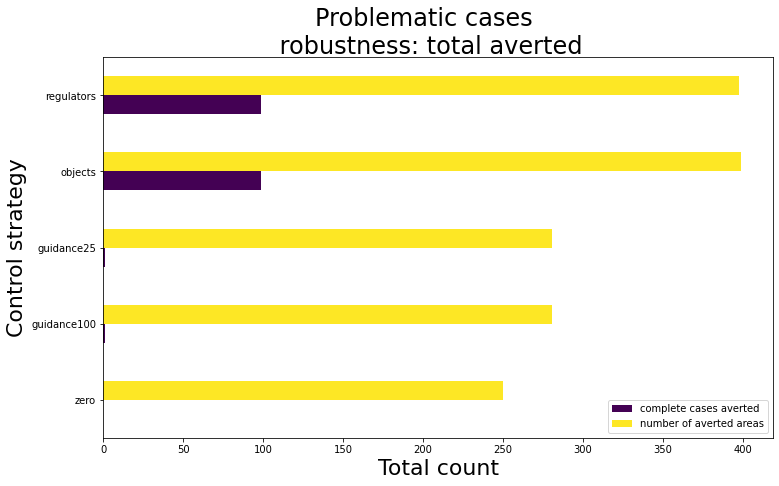
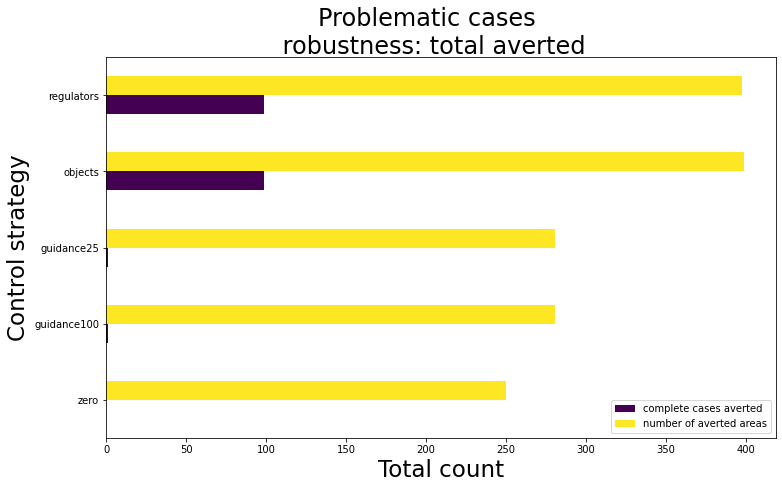
figures update

Changed region(s): [[0.0, 0.0, 1.0, 0.9877], [0.3081, 0.1852, 0.3389, 0.2469]]

diff --git a/analysis/control_exploration_results.py b/analysis/control_exploration_results.py
@@ -253,7 +253,7 @@ if __name__ == "__main__":
         )
     ].plot.bar(ax=ax, colormap="viridis", rot=0)
     fig.suptitle("Problematic cases \n raw max density", fontsize=22)
-    ax.set_ylabel("max density [#/m²]", fontsize=22)
+    ax.set_ylabel("max density [#/m²]", fontsize=23)
     fig.savefig("../figures/controlStrategiesRawMaxDensityS1.png", bbox_inches="tight")
 
     fig, ax = plt.subplots(figsize=(8, 6))
@@ -268,7 +268,7 @@ if __name__ == "__main__":
         )
     ].plot.bar(ax=ax, colormap="viridis", rot=0)
     fig.suptitle("Good cases \n raw max density", fontsize=22)
-    ax.set_ylabel("max density [#/m²]", fontsize=22)
+    ax.set_ylabel("max density [#/m²]", fontsize=23)
     fig.savefig("../figures/controlStrategiesRawMaxDensityS2.png", bbox_inches="tight")
 
     fig, ax = plt.subplots(figsize=(8, 6))
@@ -283,7 +283,7 @@ if __name__ == "__main__":
         )
     ].plot.bar(ax=ax, colormap="viridis", rot=0)
     fig.suptitle("worst cases \n raw max density", fontsize=22)
-    ax.set_ylabel("max density [#/m²]", fontsize=22)
+    ax.set_ylabel("max density [#/m²]", fontsize=23)
     fig.savefig("../figures/controlStrategiesRawMaxDensityS3.png", bbox_inches="tight")
 
     # plotting raw mean speed scores
@@ -292,7 +292,7 @@ if __name__ == "__main__":
         ax=ax, colormap="viridis"
     )
     fig.suptitle("Problematic cases \n raw mean speed", fontsize=24)
-    ax.set_xlabel("mean speed [m/s]", fontsize=22)
+    ax.set_xlabel("mean speed [m/s]", fontsize=23)
     fig.savefig("../figures/controlStrategiesRawMeanSpeedS1.png", bbox_inches="tight")
 
     fig, ax = plt.subplots(figsize=(12, 7))
@@ -300,7 +300,7 @@ if __name__ == "__main__":
         ax=ax, colormap="viridis"
     )
     fig.suptitle("Good cases \n raw mean speed", fontsize=24)
-    ax.set_xlabel("mean speed [m/s]", fontsize=22)
+    ax.set_xlabel("mean speed [m/s]", fontsize=23)
     fig.savefig("../figures/controlStrategiesRawMeanSpeedS2.png", bbox_inches="tight")
 
     fig, ax = plt.subplots(figsize=(12, 7))
@@ -308,7 +308,7 @@ if __name__ == "__main__":
         ax=ax, colormap="viridis"
     )
     fig.suptitle("worst cases \n raw mean speed", fontsize=24)
-    ax.set_xlabel("mean speed [m/s]", fontsize=22)
+    ax.set_xlabel("mean speed [m/s]", fontsize=23)
     fig.savefig("../figures/controlStrategiesRawMeanSpeedS3.png", bbox_inches="tight")
 
     # plotting robustness averted scores
@@ -317,8 +317,8 @@ if __name__ == "__main__":
         ax=ax, colormap="viridis", rot=0
     ).legend(loc="lower right")
     fig.suptitle("Problematic cases \n robustness: total averted", fontsize=24)
-    ax.set_xlabel("Total count", fontsize=22)
-    ax.set_ylabel(ylabel="Control strategy", fontsize=22)
+    ax.set_xlabel("Total count", fontsize=23)
+    ax.set_ylabel(ylabel="Control strategy", fontsize=23)
     fig.savefig("../figures/controlStrategiesAvertedS1.png", bbox_inches="tight")
 
     fig, ax = plt.subplots(figsize=(12, 7))
@@ -326,8 +326,8 @@ if __name__ == "__main__":
         ax=ax, colormap="viridis", rot=0
     ).legend(loc="lower right")
     fig.suptitle("Good cases \n robustness: total averted", fontsize=24)
-    ax.set_xlabel("Total count", fontsize=22)
-    ax.set_ylabel(ylabel="Control strategy", fontsize=22)
+    ax.set_xlabel("Total count", fontsize=23)
+    ax.set_ylabel(ylabel="Control strategy", fontsize=23)
     fig.savefig("../figures/controlStrategiesAvertedS2.png", bbox_inches="tight")
 
     fig, ax = plt.subplots(figsize=(12, 7))
@@ -335,8 +335,8 @@ if __name__ == "__main__":
         ax=ax, colormap="viridis", rot=0
     ).legend(loc="lower right")
     fig.suptitle("worst cases \n robustness: total averted", fontsize=24)
-    ax.set_xlabel("Total count", fontsize=22)
-    ax.set_ylabel(ylabel="Control strategy", fontsize=22)
+    ax.set_xlabel("Total count", fontsize=23)
+    ax.set_ylabel(ylabel="Control strategy", fontsize=23)
     fig.savefig("../figures/controlStrategiesAvertedS3.png", bbox_inches="tight")
 
     # plotting robustness mean variance speed
@@ -345,7 +345,9 @@ if __name__ == "__main__":
         ax=ax, colormap="viridis", rot=0, legend=False
     )
     fig.suptitle("Problematic cases \n robustness: mean variance", fontsize=24)
-    ax.set(xlabel="Mean variance score (higher is better)", ylabel="Control strategy")
+    ax.set_xlabel("Mean variance score (higher is better)", fontsize=23)
+    ax.set_ylabel("Control strategy", fontsize=23)
+    plt.yticks(fontsize=17)
     fig.savefig(
         "../figures/controlStrategiesMeanVarianceSpeedS1.png", bbox_inches="tight"
     )
@@ -354,8 +356,9 @@ if __name__ == "__main__":
         ax=ax, colormap="viridis", rot=0, legend=False
     )
     fig.suptitle("Good cases \n robustness: mean variance", fontsize=24)
-    ax.set_xlabel("Mean variance score (higher is better)", fontsize=22)
-    ax.set_ylabel("Control strategy", fontsize=22)
+    ax.set_xlabel("Mean variance score (higher is better)", fontsize=23)
+    ax.set_ylabel("Control strategy", fontsize=23)
+    plt.yticks(fontsize=17)
     fig.savefig(
         "../figures/controlStrategiesMeanVarianceSpeedS2.png", bbox_inches="tight"
     )
@@ -364,8 +367,9 @@ if __name__ == "__main__":
         ax=ax, colormap="viridis", rot=0, legend=False
     )
     fig.suptitle("worst cases \n robustness: mean variance", fontsize=24)
-    ax.set_xlabel("Mean variance score (higher is better)", fontsize=22)
-    ax.set_ylabel("Control strategy", fontsize=22)
+    ax.set_xlabel("Mean variance score (higher is better)", fontsize=23)
+    ax.set_ylabel("Control strategy", fontsize=23)
+    plt.yticks(fontsize=17)
     fig.savefig(
         "../figures/controlStrategiesMeanVarianceSpeedS3.png", bbox_inches="tight"
     )
@@ -376,8 +380,9 @@ if __name__ == "__main__":
         ["maxDensityArea1", "maxDensityArea2", "maxDensityArea3", "maxDensityArea4"]
     ].T.plot.bar(ax=ax, colormap="viridis", rot=0)
     fig.suptitle("Problematic cases \n robustness: mean variance", fontsize=24)
-    ax.set_xlabel("Control strategy", fontsize=22)
-    ax.set_ylabel("Mean variance score (higher is better)", fontsize=22)
+    ax.set_xlabel("Control strategy", fontsize=23)
+    ax.set_ylabel("Mean variance score (higher is better)", fontsize=23)
+    plt.xticks(fontsize=17)
     fig.savefig(
         "../figures/controlStrategiesMeanVarianceMaxDensityS1.png", bbox_inches="tight"
     )
@@ -386,8 +391,9 @@ if __name__ == "__main__":
         ["maxDensityArea1", "maxDensityArea2", "maxDensityArea3", "maxDensityArea4"]
     ].T.plot.bar(ax=ax, colormap="viridis", rot=0)
     fig.suptitle("Good cases \n robustness: mean variance", fontsize=24)
-    ax.set_xlabel("Control strategy", fontsize=22)
-    ax.set_ylabel("Mean variance score (higher is better)", fontsize=22)
+    ax.set_xlabel("Control strategy", fontsize=23)
+    ax.set_ylabel("Mean variance score (higher is better)", fontsize=23)
+    plt.xticks(fontsize=17)
     fig.savefig(
         "../figures/controlStrategiesMeanVarianceMaxDensityS2.png", bbox_inches="tight"
     )
@@ -396,8 +402,9 @@ if __name__ == "__main__":
         ["maxDensityArea1", "maxDensityArea2", "maxDensityArea3", "maxDensityArea4"]
     ].T.plot.bar(ax=ax, colormap="viridis", rot=0)
     fig.suptitle("Worst cases \n robustness: mean variance", fontsize=24)
-    ax.set_xlabel("Control strategy", fontsize=22)
-    ax.set_ylabel("Mean variance score (higher is better)", fontsize=22)
+    ax.set_xlabel("Control strategy", fontsize=23)
+    ax.set_ylabel("Mean variance score (higher is better)", fontsize=23)
+    plt.xticks(fontsize=17)
     fig.savefig(
         "../figures/controlStrategiesMeanVarianceMaxDensityS3.png", bbox_inches="tight"
     )
